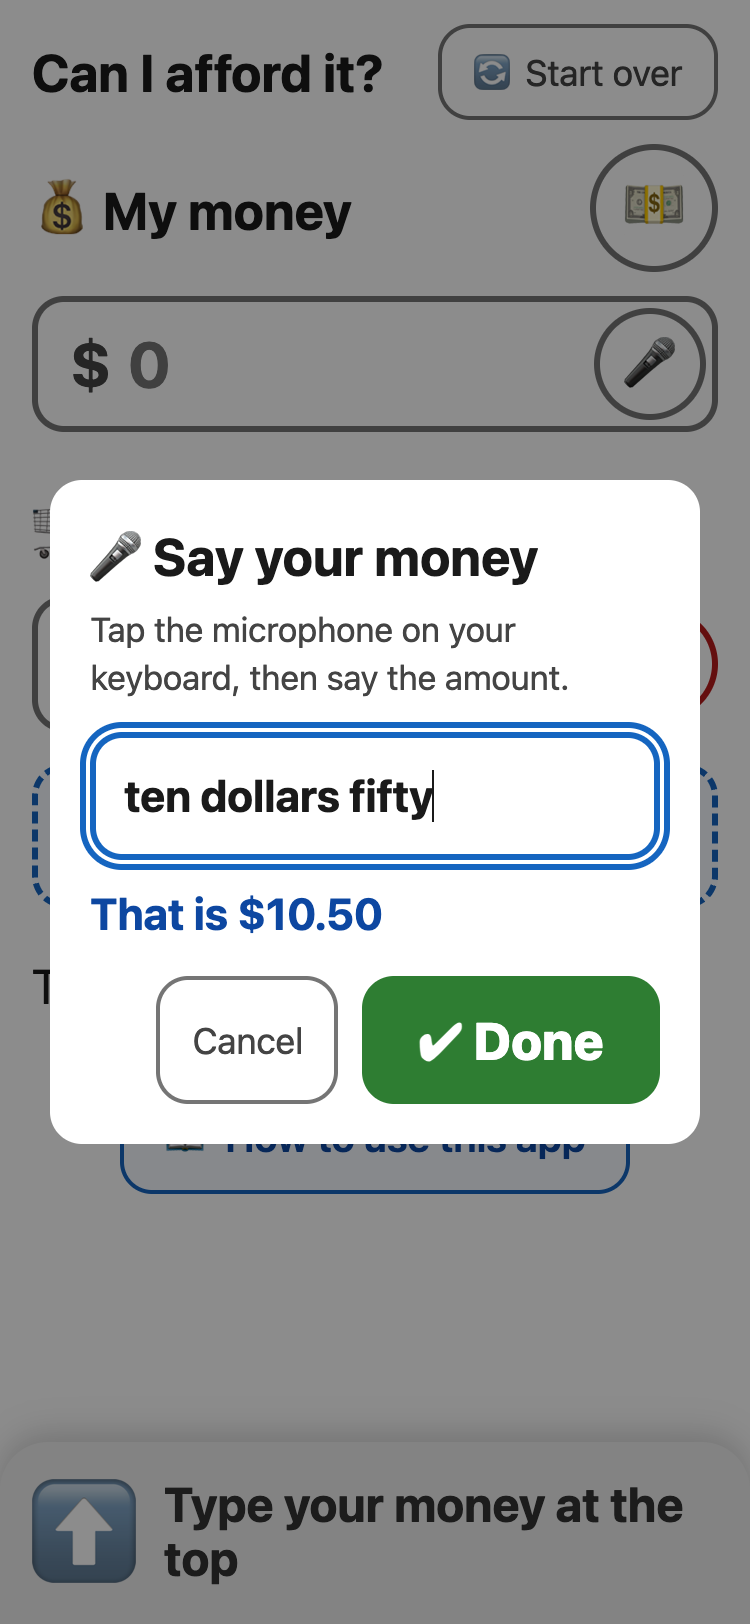
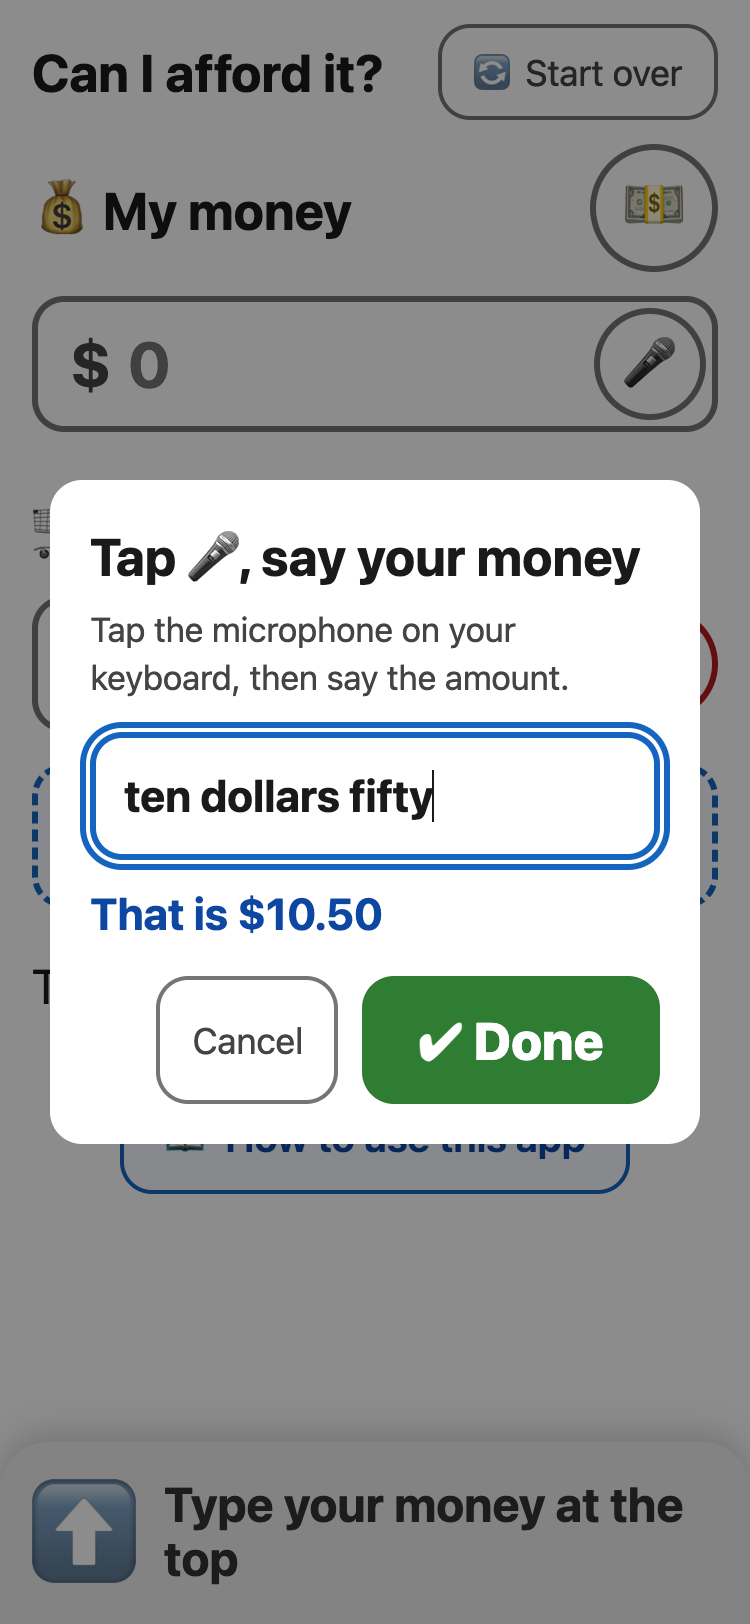
feat: retitle the speak dialog "Tap 🎤, say your money"
Names the next action instead of restating the goal. The emoji now
carries meaning rather than decorating, so it gets an accessible name
("microphone") instead of aria-hidden — screen readers would otherwise
announce "Tap , say your money".

Guide wording and the dialog screenshot follow; cache bumped to v12.

Changed region(s): [[0.1227, 0.3079, 0.8587, 0.3695]]

diff --git a/public/guide.html b/public/guide.html
@@ -233,8 +233,8 @@
 
     <ol class="steps">
       <li>Tap the <strong>🎤</strong> inside an empty money box.
-          A small <strong>Say your money</strong> window opens, and the
-          keyboard appears.</li>
+          A small <strong>Tap 🎤, say your money</strong> window opens,
+          and the keyboard appears.</li>
       <li>Tap the <strong>microphone 🎤</strong> button on the keyboard.</li>
       <li>Say the amount. For example: <strong>“ten dollars fifty”</strong>.</li>
       <li>The window shows the money it heard. Tap <strong>✔ Done</strong>
@@ -247,7 +247,7 @@
 
     <figure>
       <img src="/img/guide/screen-speak.png" width="750" height="1624"
-           alt="The Say your money window on top of the app. It says: Tap the microphone on your keyboard, then say the amount. A text box shows the words ten dollars fifty, and below it the app says: That is $10.50. There are Cancel and Done buttons.">
+           alt="The Tap microphone, say your money window on top of the app. It says: Tap the microphone on your keyboard, then say the amount. A text box shows the words ten dollars fifty, and below it the app says: That is $10.50. There are Cancel and Done buttons.">
       <figcaption>Say the amount, check it, then tap ✔ Done</figcaption>
     </figure>
 

diff --git a/public/index.html b/public/index.html
@@ -135,7 +135,7 @@
        The money fields' decimal keypad has no voice key on iOS or Android,
        so dictation has to happen here and get parsed back into the field. -->
   <dialog id="speak" class="speak" aria-labelledby="speak-title">
-    <h2 id="speak-title" class="speak-title"><span aria-hidden="true">🎤</span> Say your money</h2>
+    <h2 id="speak-title" class="speak-title">Tap <span role="img" aria-label="microphone">🎤</span>, say your money</h2>
     <p class="speak-hint">Tap the microphone on your keyboard, then say the amount.</p>
     <input id="speak-input" class="speak-input" type="text" autocomplete="off"
            enterkeyhint="done" placeholder="ten dollars fifty"

diff --git a/public/sw.js b/public/sw.js
@@ -2,7 +2,7 @@
 // launch picks up new files; firebase.json serves this file with no-cache.
 // "/guide" (not "/guide.html"): Hosting cleanUrls 301s the .html form, and a
 // cached redirected response breaks offline navigations.
-const CACHE = "afford-v11";
+const CACHE = "afford-v12";
 const ASSETS = [
   "/",
   "/index.html",
